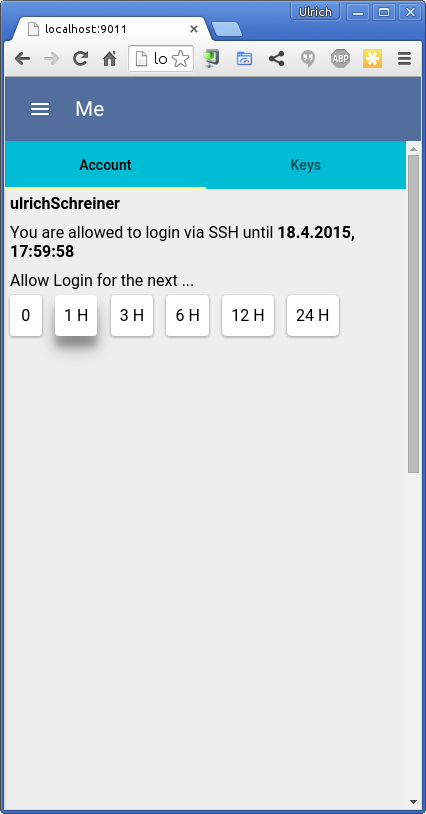
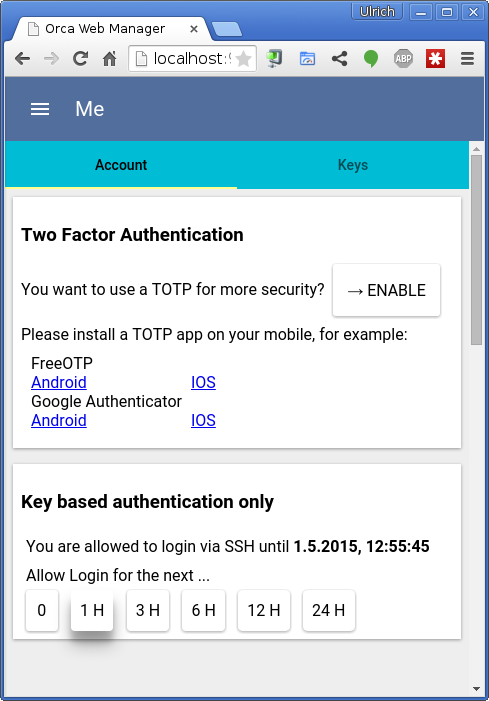
more documentation

diff --git a/cmd/gateway/fetcher.go b/cmd/gateway/fetcher.go
@@ -99,7 +99,7 @@ func (hf *httpFetcher) UserByKey(zone, key string) (*users.User, error) {
 			continue
 		}
 		if resp.Status() != 200 {
-			return nil, fmt.Errorf("HTTP %d: %s", resp.Status(), resp.RawText())
+			return nil, fmt.Errorf("%s: HTTP %d: %s", serviceUrl, resp.Status(), resp.RawText())
 		}
 		return &u, nil
 	}

diff --git a/README.md b/README.md
@@ -96,7 +96,7 @@ zone with `-z myhomezone`.
   - ORCA_ETCD_KEY
   - ORCA_ETCD_CERT
   - ORCA_ETCD_CA
-  
+
  If you want a testdrive, start an etcd-cluster with `goreman start` in the testing
  subdirectory. You can then
  ```
@@ -141,8 +141,11 @@ If you try to connect to a known computer via the gateway, you should try it
 (please accept the server key; you can change it via `orcaman`):
 ```
 ssh -A -p 2022 usc@192.168.0.21@localhost
+usc@192.168.0.21@localhost's password:
 ```
-but the gateway denies access:
+but the gateway denies access and prompts for a password (which will also not be
+accepted):
+
 ```
 2015/04/18 16:55:48 [DEBUG] remote: 127.0.0.1:55746: cannot fetch key for user 'usc@192.168.0.21': HTTP 404: {"error":"entity could not be found"}
 2015/04/18 16:55:48 [DEBUG] remote: 127.0.0.1:55746: cannot fetch key for user 'usc@192.168.0.21': HTTP 404: {"error":"entity could not be found"}
@@ -151,7 +154,7 @@ but the gateway denies access:
 ```
 
 Here you see three attempts to login, because i have three keys in my local
-development computer here. Two of the attepmts  were not accepted because the 
+development computer here (ssh-add'ed). Two of the attepmts  were not accepted because the 
 gateway could not find an acceptable user for the provided public key. The third
 was denied, because the account is not activated, so lets activate it for 1 hour:
 
@@ -171,6 +174,26 @@ selected zone. You don't have to restart:
 
 ![Gateway Settings](doc/img/gateway_settings.png)
 
+As you have seen, the gatway also supports 2FA. To use this feature you need a
+OTP app on your mobile. Links to them are embedded in the application. After you
+installed such an application, go to your account page and lick on *ENABLE*:
+
+![2FA Enable](doc/img/2fa_user_enable.png)
+
+After you scanned the QR code you must enter an OTP password displayed on your
+OTP application. If you entered the right one you have successfully activated
+2FA!
+
+![2FA Enable](doc/img/2fa_user_settings.png)
+
+After this activation, you need your private SSH key and you also need your
+mobile. The SSH gateway will prompt you for a password and you must enter
+the current one time password displayed in your app.
+
+As you can see in the screenshot, there is a caching option. If you don't want
+to enter your OTP every time you can use the slider to let the gateway cache 
+your successful authentication. Please note that the administrator of the gateway
+can overwrite this value with an upper limit! 
 
 ## Components
 ----------
